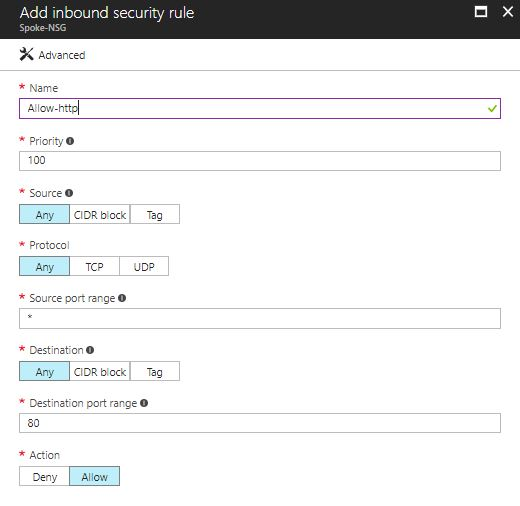
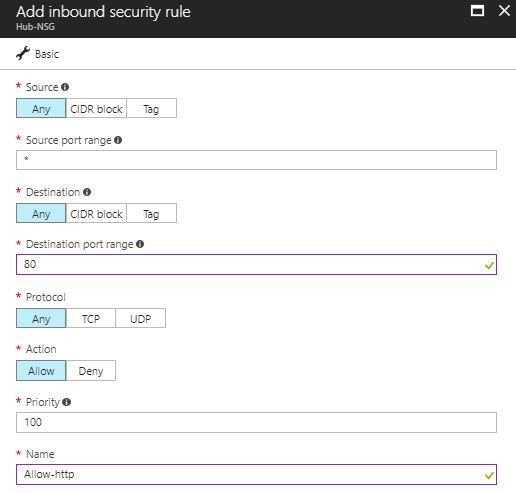
Moved NSG to Hub

diff --git a/readme.md b/readme.md
@@ -344,7 +344,7 @@ az network route-table route create --name Spoke2-Route --address-prefix 10.2.0.
 **6)** Associate the UDR with the GatewaySubnet inside the Hub Vnet:
 
 <pre lang="...">
-az network vnet subnet update --name Hub_Vnet-Subnet1 --vnet-name Hub_Vnet --route-table Hub_UDR -g VDC-Hub
+az network vnet subnet update --name GatewaySubnet --vnet-name Hub_VNet --route-table Hub_UDR -g VDC-Hub
 </pre>
 
 **7)** Configure the UDRs for the Spoke VNets, with relevant routes and associate to the subnets:
@@ -410,9 +410,9 @@ At the moment, our user in the On Premises VNet is potentially able to access th
 
 An NSG is a list of user-defined security rules that allows or denies traffic on specific ports, or to / from specific IP address ranges. An NSG can be applied at two levels: at the virtual machine NIC level, or at a subnet level.
 
-Our NSG will define two rules - one for HTTP and another for TCP port 3000. This NSG will be applied at the subnet level.
+Our NSG will define two inbound rules - one for HTTP and another for TCP port 3000. We'll create this NSG within our Hub VNet in order to enforce traffic at a central location. This NSG will be applied at the first CSR1000V interface (i.e. the interface where traffic would come in from the OnPrem VNet).
 
-**1)** In the Azure portal under the resource group VDC-Spoke1, click 'Add' and search for 'Network Security Group'. Create a new NSG named *Spoke-NSG*.
+**1)** In the Azure portal under the resource group VDC-Hub, click 'Add' and search for 'Network Security Group'. Create a new NSG named *Hub-NSG*.
 
 **2)** Navigate to the newly created NSG and select it. Select 'Inbound Security Rules'. Click 'Add' to add a new rule and then click the 'Advanced' button. Use the following parameters:
 
@@ -442,7 +442,7 @@ Our NSG will define two rules - one for HTTP and another for TCP port 3000. This
 - Destination port range: *Any*
 - Action: *Deny*
 
-**5)** Select 'Subnets'. Click the 'Associate' button and choose 'Spoke1_VNet' and 'Spoke1\_VNet-Subnet1'.
+**5)** Select 'Network Interfaces'. Click the 'Associate' button and choose 'vdc-csr-1-Nic0'.
 
 ![NSG Associate Subnet](https://github.com/Araffe/vdc-networking-lab/blob/master/images/NSG2.jpg "NSG Associate Subnet")
 
@@ -459,7 +459,7 @@ This connection attempt will fail due to the NSG now associated with the Spoke1 
 **7)** From OnPrem_VM1, make sure you can still access the demo app:
 
 <pre lang="...">
-curl http://10.1.1.5
+curl http://10.1.1.4
 </pre>
 
 You might wonder why the third rule denying all traffic is required in this example. The reason for this is that a default rule exists in the NSG that allows all traffic from every virtual network. Therefore, without the specific 'Deny-All' rule in place, all traffic will succeed (in other words, the NSG will have no effect). You can see the default rules by clicking on 'Default Rules' under the security rules view.
